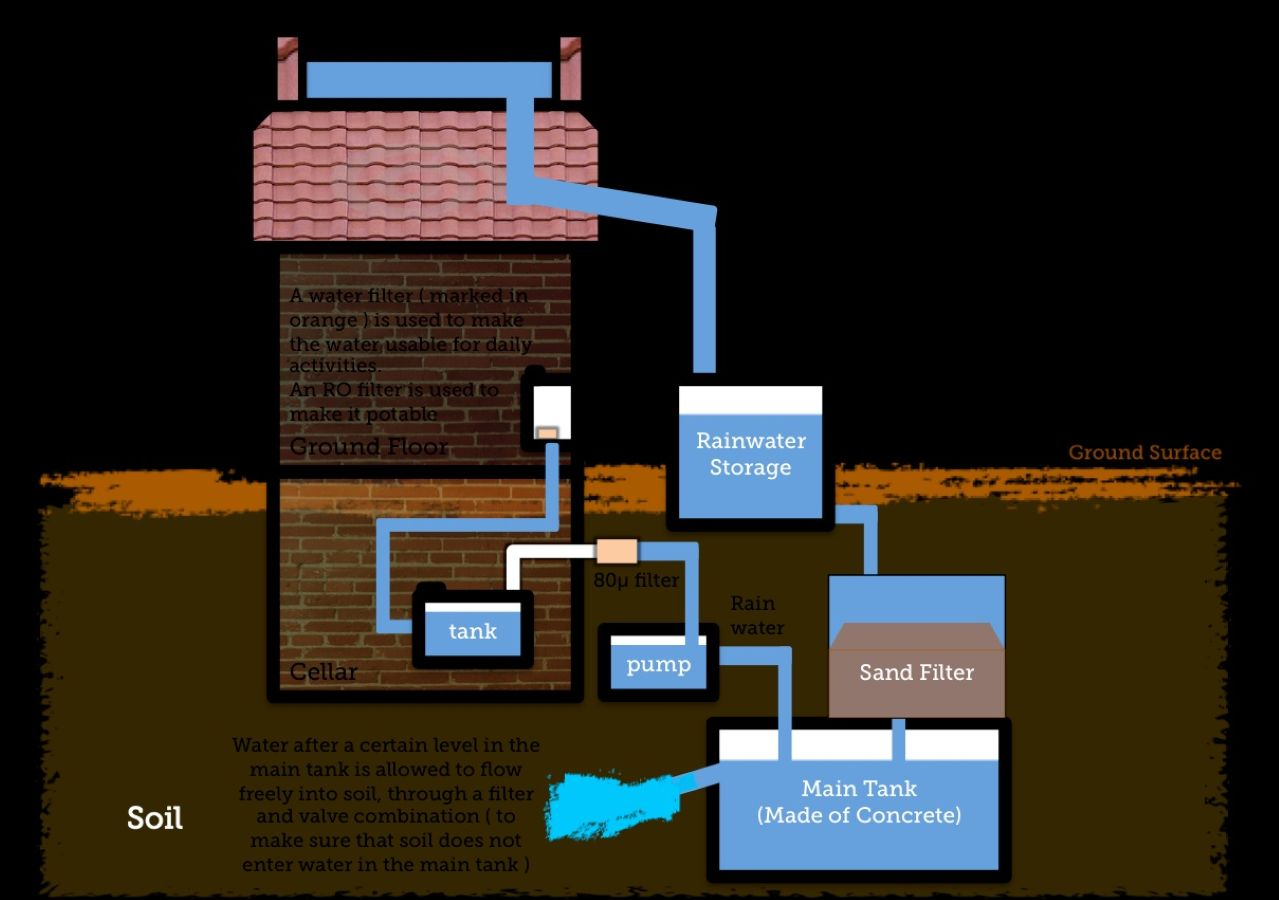
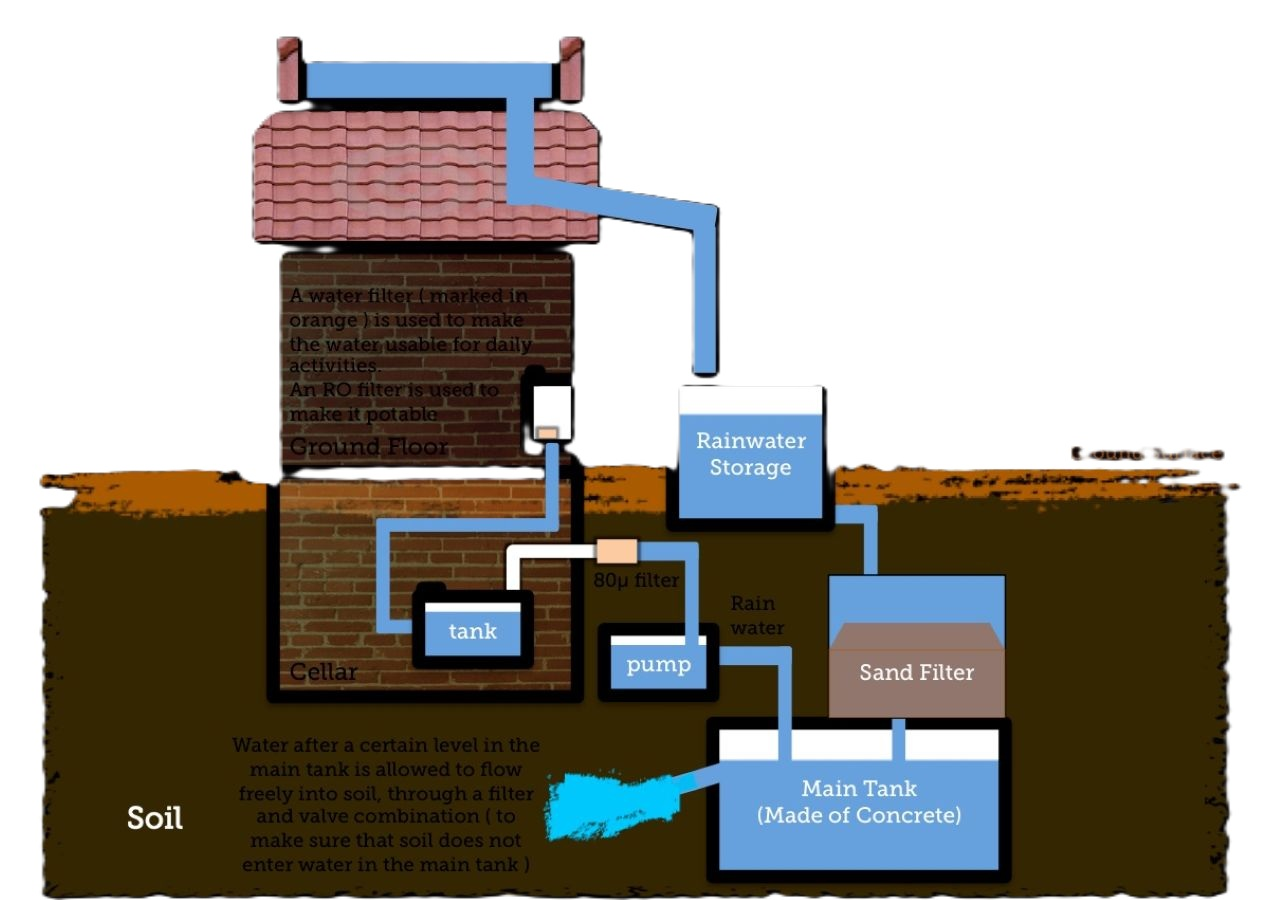
11/56

diff --git a/CW/gallery.css b/CW/gallery.css
@@ -49,7 +49,7 @@
     left: 0;
     width: 100%;
     height: 100%;
-    background: rgba(19, 73, 87, 0.98);
+    background: rgba(5, 85, 105, 0.726);
     z-index: 2000;
     justify-content: center;
     align-items: center;
